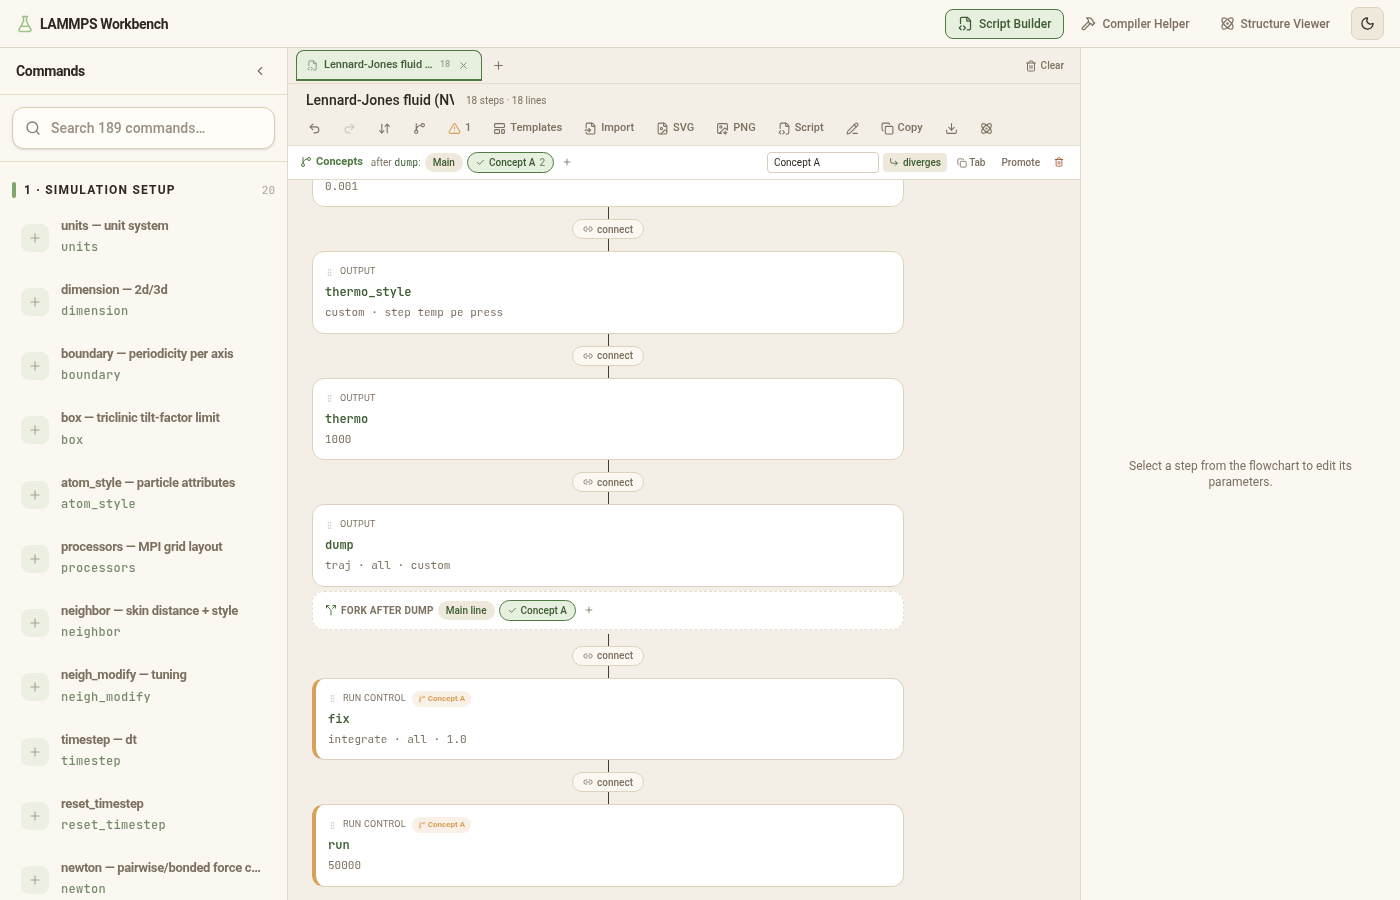
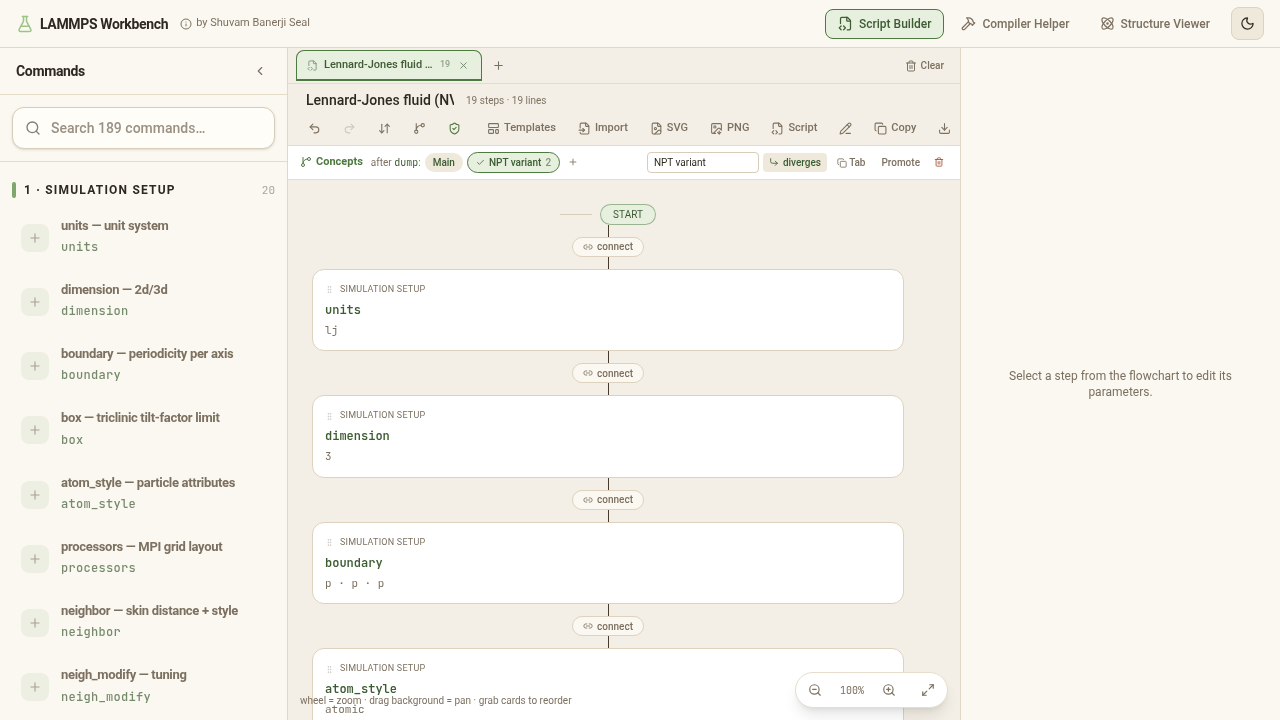
docs: document branching, script check and the perf work
* README: new feature entries for concept branching, Script check and
    pipeline-order emission; the performance and analysis bullets now
    describe what the code actually does, with the measured RDF numbers;
    two new screenshots (branching, Script check catching a real error).
  * wiki/Concept-Branching.md — the model (fork point, diverges vs
    rejoins), forking, switching, the per-concept controls, and a worked
    NVT-vs-NPT example.
  * wiki/Script-Check.md — every rule with the docs.lammps.org sentence it
    enforces, plus an explicit statement of what the checker does NOT do:
    it validates structure, not physics. A clean check does not mean the
    simulation is right.
  * wiki/Performance.md — a v3.5 section covering the cell-list RDF, the
    analysis worker, the direct instance-matrix writes, the two disposal
    leaks and the argument-spread crash.
  * wiki/Home.md — links the new pages and states the licensing position
    up front instead of calling the project open source.

diff --git a/README.md b/README.md
@@ -32,8 +32,10 @@ Load **LAMMPS**, **XYZ**, **PDB** and **CIF** structures by drag & drop and expl
 | ![Light](docs/screenshots/app-light.png) | ![Shortcuts](docs/screenshots/shortcuts-overlay.png) |
 | **Mobile** | **Trajectory Analysis — RDF/MSD** |
 | ![Mobile](docs/screenshots/app-mobile.png) | ![Analysis](docs/screenshots/analysis-desktop.png) |
-| **Analysis — mobile** | |
-| ![Analysis Mobile](docs/screenshots/analysis-mobile.png) | |
+| **Analysis — mobile** | **Concept branching — one flowchart, several ideas** |
+| ![Analysis Mobile](docs/screenshots/analysis-mobile.png) | ![Branching](docs/screenshots/flowchart-branching.png) |
+| **Script check — doc-grounded validation** | **Viewer dock on a phone** |
+| ![Script check](docs/screenshots/script-check.png) | ![Mobile dock](docs/screenshots/viewer-dock-mobile.png) |
 
 ## 🎬 Simulation Videos — rendered **in-browser**
 
@@ -47,6 +49,9 @@ The viewer plays **LAMMPS dump** (`.lammpstrj`/`.dump`) natively and exports **M
 
 ## ✨ Features
 
+- 🌿 **Concept branching — divergent ideas in one flowchart.** Hover any step and hit the branch icon to *fork the pipeline from that point onward*. The new concept starts as a **copy of the rest of your pipeline**, so you edit a variant instead of rebuilding from scratch: swap the thermostat, try a different pair style, extend the production run. Switch between **Main line** and each concept with one click — the generated script, the warnings and the SVG export all follow whichever concept is taken. A concept either **replaces** everything after the fork (truly divergent) or **rejoins** the main line (a detour), and the steps it cut off stay visible, ghosted, under *"not in this concept"*. When one idea wins, **Promote** folds it into the main line and drops its rivals; **Tab** flattens any concept into its own flowchart tab for side-by-side comparison. Several forks can be open at once.
+- ✅ **Script check — validation against the LAMMPS rules, not vibes.** A linter reads the *final* script (generated or hand-edited) and flags what LAMMPS would reject or silently do wrong: header-only commands used after the box (`units`, `dimension`, `boundary`, `atom_style`), commands used before it (`pair_coeff`, `mass`, `velocity`, `create_atoms`), `unfix`/`undump`/`uncompute` of an ID that was never defined, fix/dump/compute ID reuse with a different style, groups and regions referenced before definition, a `run` with no time-integration fix, `pair_style reaxff` without charge equilibration, and kspace/pair-style mismatches. **Every rule quotes the `docs.lammps.org` page it enforces and links to it**, and the whole rule set is verified silent on the official example scripts (`in.melt`, `in.heatflux`, `in.msd.2d`, `in.cos.1000SPCE`) — a linter that cries wolf on `in.melt` would be worse than none. Every shipped template is asserted to pass with zero errors *and* zero warnings.
+- ⬇ **Pipeline-order emission.** The script comes out in exactly the order the flowchart shows, because LAMMPS executes an input file top to bottom and the docs are explicit that the settings/run phases *"can be repeated as many times as desired"*. That makes multi-stage scripts work: `run` → `reset_timestep` → `run`, a second `dump` opened after a stage, and `write_data` **after** the run rather than before it. A **Sort** action still reorders into canonical section order on demand — it moves the steps, so the flowchart never disagrees with the script.
 - 🧪 **LAMMPS Workbench** — three integrated modules: a visual **Script Builder** (flowchart pipeline of 186 curated commands — the complete general-command surface, locked by a coverage test against docs.lammps.org), a **Compiler Helper** (package/accelerator presets → ready-to-run CMake build scripts) and the 3D **Structure Viewer**.
 - 💾 **Everything persists** — your script pipeline, compiler options, active module and light/dark theme survive module switches *and* page reloads (local-only, nothing uploaded).
 - 🧩 **Editable flowchart** — grab any card and drop it between two others (it locks into place with a live insertion indicator), pan by dragging the background, zoom with the mouse wheel (35–250%), click any **connect** pill to insert a command at that exact spot. Prefer raw text? **Edit script** switches to a hand-editing mode that emits your text verbatim.
@@ -61,7 +66,7 @@ The viewer plays **LAMMPS dump** (`.lammpstrj`/`.dump`) natively and exports **M
 - 🧊 **True 3D rendering** — depth-correct perspective view of atoms, bonds and the simulation cell, powered by three.js / React Three Fiber.
 - 📐 **Measurement tools** — click 2–4 atoms for live distance / angle / dihedral readouts with on-canvas overlays.
 - 🎞 **Trajectory playback** — multi-frame XYZ **and LAMMPS dump** files get a scrubber with play/pause and 2–30 fps speeds (`P`, `,`, `.`).
-- 📊 **Trajectory analysis** — new **Analysis** tab for dump trajectories: **RDF g(r)** (2D/3D PBC-aware, 100 bins), **MSD vs lag**, **density profiles** along x/y/z, **speed histograms** (if `vx vy vz`), all as SVG charts with CSV export. Verified on your 3 demos: Ideal Gas flat `g(r)≈1`, LJ Freezing crystal peaks at `g≈2.4`.
+- 📊 **Trajectory analysis** — the **Analysis** tab for dump trajectories: **RDF g(r)** (2D/3D PBC-aware), **MSD vs lag** (minimum-image, time-origin averaged, ID-following), **density profiles**, **speed histograms** (if `vx vy vz`), all as SVG charts with CSV export. Runs in a worker, once per structure. The physics is unit-tested, not just eyeballed: `g(r)→1` for a random gas, first and second shells of a simple-cubic lattice at `a` and `a√2`, MSD exactly `(v·t)²` under uniform drift, zero for a frozen structure, and correct across a periodic wrap.
 - 🔬 **Improved LAMMPS dump rendering** — handles `x y z` / `xu yu zu` / `xs ys zs`, optional `vx vy vz` velocities, thin 2D boxes (`-0.5→0.5`) with correct PBC and box display.
 - 🔗 **Shareable views** — the Share button copies a URL that restores your exact visualization settings.
 - 📁 **Four structure formats**
@@ -72,7 +77,8 @@ The viewer plays **LAMMPS dump** (`.lammpstrj`/`.dump`) natively and exports **M
   | Protein Data Bank | `.pdb` `.ent` | `CONECT` bonds, `CRYST1` unit cell |
   | CIF | `.cif` `.mmcif` | fractional ↔ Cartesian conversion, triclinic cells as true parallelepipeds |
 - 🎨 **All 118 elements** resolved by symbol from *any* format and colored with standard **CPK/Jmol** palettes; per-type recoloring in the sidebar.
-- ⚡ **Large-system performance** — atoms *and* bonds render as single instanced draw calls; bond inference uses an O(n) spatial hash grid; adaptive device-pixel-ratio and tessellation scale with system size; FPS-adaptive quality degradation; parsing runs in a Web Worker so the UI never freezes.
+- ⚡ **Large-system performance** — atoms *and* bonds render as single instanced draw calls with instance matrices written straight into the GPU buffer (no per-atom `Object3D` compose, no per-instance colour string re-parsing); bond inference uses an O(n) spatial hash grid; adaptive device-pixel-ratio and tessellation scale with system size; FPS-adaptive quality degradation; `frameloop="demand"` means zero idle GPU burn.
+- 🧵 **Two Web Workers, so the UI never freezes** — parsing runs off the main thread, and so does trajectory analysis. **RDF uses a periodic cell list** instead of an all-pairs loop: measured **7× faster at 10 000 atoms and 36× at 30 000** (36.9 s → 1.0 s), with the accelerated histogram asserted bin-for-bin identical to a brute-force reference. MSD resolves a stable atom ordering once instead of rebuilding a lookup inside its inner loop.
 - 🎬 **High-quality video export** — one-click recording of the live canvas at up to 60 fps and ~24 Mbps, saved as MP4 (H.264) where the browser supports it, WebM (VP9/VP8) otherwise.
 - 💡 **Five lighting rigs** (studio · lab · outdoor · space · soft) plus four materials (realistic · plastic · metallic · toon).
 - 📦 **Simulation box display** for LAMMPS bounds, PDB `CRYST1` and CIF cells — triclinic cells render correctly, never faked as cubes.

diff --git a/wiki/Script-Check.md b/wiki/Script-Check.md
@@ -1,0 +1,76 @@
+# Script check
+
+The Script Builder validates the script it produces against the LAMMPS
+command rules, and links every finding to the documentation page that
+defines it.
+
+Open it with the shield/warning badge in the toolbar. The badge itself shows
+the current error count (or warning count when there are no errors), so you can
+see at a glance whether the pipeline is sound.
+
+## What it checks
+
+It reads the **final text** — generated *or* hand-edited in manual mode — so
+what is validated is exactly what you will feed to `lmp -in`.
+
+### Errors — LAMMPS will refuse, or silently do the wrong thing
+
+| Rule | Requirement |
+|---|---|
+| `order/units-after-box` | `units` *"cannot be used after the simulation box is defined by a read_data or create_box command"* — [units](https://docs.lammps.org/units.html) |
+| `order/dimension-after-box` | must come **before** the box — [dimension](https://docs.lammps.org/dimension.html) |
+| `order/boundary-after-box` | cannot follow `read_data`/`create_box`/`read_restart`; use `change_box` — [boundary](https://docs.lammps.org/boundary.html) |
+| `order/atom_style-after-box` | cannot follow the box definition — [atom_style](https://docs.lammps.org/atom_style.html) |
+| `order/pair_coeff-before-box` | *"must come after the simulation box is defined"* — [pair_coeff](https://docs.lammps.org/pair_coeff.html) |
+| `order/mass-before-box` | same requirement — [mass](https://docs.lammps.org/mass.html) |
+| `order/pair_coeff-without-pair_style` | coefficients with no style declared |
+| `order/create_atoms-without-atom_style` | *"An atom_style must be previously defined to use this command"* — [create_atoms](https://docs.lammps.org/create_atoms.html) |
+| `order/velocity-without-atoms` | no `read_data`/`read_restart`/`create_atoms` yet |
+| `ref/unknown-fix` · `ref/unknown-dump` · `ref/unknown-compute` | `unfix`/`undump`/`uncompute` of an ID that was never defined, or already removed |
+| `ref/unknown-group` · `ref/unknown-region` | a group or region used before it exists |
+| `id/fix-reuse` | re-issuing a fix ID with a **different** style (the same style is legal and is not flagged) |
+| `id/dump-reuse` · `id/compute-reuse` | duplicate IDs |
+| `run/no-atoms` | nothing to integrate (a `fix pour`/`deposit`/`gcmc` counts as an atom source) |
+| `reaxff/missing-qeq` | *"LAMMPS requires that fix qeq/reaxff … is used with pair_style reaxff"* unless `checkqeq no` — [pair_reaxff](https://docs.lammps.org/pair_reaxff.html) |
+
+### Warnings — it runs, but probably not as intended
+
+| Rule | Why |
+|---|---|
+| `run/no-integrator` | no `fix nve`/`nvt`/`npt`/`rigid` active — LAMMPS runs and the atoms do not move |
+| `run/no-pair-style` | atoms will not interact |
+| `order/mass-after-velocity` | *"All masses must be defined before a velocity or fix shake command is used"* — [mass](https://docs.lammps.org/mass.html) |
+| `order/create_atoms-without-lattice` | `create_atoms … box` fills from the current lattice; with no `lattice` command the default `lattice none 1.0` applies |
+| `create_box-without-atom_style` | you get the default `atom_style atomic` — no charges, bonds or molecule IDs |
+| `kspace/pair-mismatch` | a long-range solver needs a matching `coul/long`-family pair style |
+| `script/no-run` | nothing is simulated |
+| `script/pair-style-without-coeff` | a style with no coefficients and no data file to supply them |
+| `script/no-mass` | no `mass` and no data file (not flagged for `atom_style sphere` and friends, which carry per-atom mass) |
+
+## What it deliberately does not do
+
+It is a **static ordering and reference checker**, not a physics referee. It
+will not tell you that your timestep is too large, your thermostat damping is
+unphysical or your force field is wrong for your system. It also does not
+validate the style-specific argument grammar of all ~900 fix/compute/pair
+styles.
+
+Treat a clean check as "this script is structurally valid LAMMPS", not as
+"this simulation is correct". The generated header says as much, and so does
+the licence's warranty section.
+
+## No false alarms
+
+A linter that fires on the official examples would be worse than none, so the
+whole rule set is asserted **silent** — zero errors *and* zero warnings — on
+canonical scripts from the `lammps/lammps` examples tree: `in.melt`,
+`in.heatflux`, `in.msd.2d` and `in.cos.1000SPCE`. Every shipped starter
+template is held to the same bar.
+
+If you hit a false positive, that is a bug worth reporting — use the
+**"Incorrect LAMMPS output"** issue template and quote the docs sentence.
+
+## See also
+
+- [[Concept Branching]] — the check follows whichever concept is taken
+- [`src/lammps/validate.ts`](https://github.com/Shuvam-Banerji-Seal/lammps-web-gui/blob/main/src/lammps/validate.ts) — the rules, each with its citation

diff --git a/wiki/Concept-Branching.md b/wiki/Concept-Branching.md
@@ -1,0 +1,98 @@
+# Concept branching
+
+One flowchart, several competing ideas.
+
+A molecular-dynamics study is rarely one script. You build an equilibration
+sequence, then you want to know: NVT or NPT for production? `lj/cut` at 2.5 or
+3.0? 50 000 steps or 200 000? Historically that meant duplicating the whole
+pipeline per variant and keeping them in sync by hand.
+
+Branching lets the shared prefix stay shared and only the divergent tail
+differ.
+
+## The model
+
+| Term | Meaning |
+|---|---|
+| **Main line** | the trunk — the linear pipeline you started with |
+| **Fork point** | the step a concept diverges *after* |
+| **Concept** | an alternative list of steps anchored at a fork point |
+| **Diverges** | the concept **replaces** everything after the fork (the default) |
+| **Rejoins** | the main line **resumes** after the concept — a detour, not a replacement |
+
+At each fork point exactly one path is taken: Main line, or one concept.
+Several fork points can exist in one flowchart, and each is chosen
+independently — so a fork after `velocity` that picks a thermostat composes
+with a fork after `run` that picks what gets written out.
+
+## Forking
+
+Hover any card in the flowchart and click the branch icon, or use **Fork** in
+the toolbar, or **Fork a concept here…** from any `connect` pill.
+
+The new concept is seeded with a **copy of the rest of your pipeline**. That is
+deliberate: you almost always want to *vary* what you already have, not start
+from an empty tail. Edit the copy — change a fix, retune a parameter, add a
+second run — and the main line is untouched.
+
+Adding a concept with the **+** button on a fork row instead starts it empty,
+for when the variant really is a different ending.
+
+## Switching
+
+The **Concepts** bar above the canvas and the **fork row** inside it both show
+`Main line` plus a chip per concept. Click one and everything follows it at
+once:
+
+- the generated script (`Script` view, **Copy**, **Download**),
+- the **Script check** diagnostics,
+- the **SVG / PNG** export, which marks the fork with a decision diamond,
+  rails the concept's cards in amber and names the taken concept in its
+  subtitle.
+
+Steps that a *diverging* concept cut off are not deleted — they stay visible,
+ghosted, under **"not in this concept"**. Switch back to Main line and they
+come straight back.
+
+## Per-concept controls
+
+| Control | What it does |
+|---|---|
+| name field | rename the concept (it appears on cards, chips and exports) |
+| **diverges / rejoins** | toggle whether the main line resumes after it |
+| **Tab** | flatten this concept into its own flowchart tab, for side-by-side comparison |
+| **Promote** | this idea won — fold it into the main line and drop its rivals at that fork |
+| 🗑 | delete the concept |
+
+Deleting a *trunk* step that a concept forks after does not orphan the concept:
+it re-anchors to the step before, or to the very start.
+
+## Everything is undoable
+
+Forking, switching, promoting, renaming and deleting all go through the normal
+history — `Ctrl+Z` / `Ctrl+Shift+Z`. The whole multi-tab workspace, branches
+included, is persisted to `localStorage`, so a reload brings your concepts back.
+
+## Worked example
+
+```
+units lj · lattice fcc · region · create_box · create_atoms · mass
+velocity · pair_style lj/cut · pair_coeff · neighbor · timestep
+thermo_style · thermo · dump
+                    │
+              ┌─────┴─────┐  fork after dump
+              │           │
+         Main line    "NPT variant"
+         fix nvt      fix npt
+         run 50000    run 200000
+                      write_data final.data
+```
+
+Switch chips to emit either script. `Promote` on **NPT variant** makes it the
+main line; `Tab` gives you both as separate flowcharts to export next to each
+other.
+
+## See also
+
+- [[Script Check]] — the validator that checks whichever concept is taken
+- [[Keyboard Shortcuts]]

diff --git a/wiki/Performance.md b/wiki/Performance.md
@@ -50,7 +50,23 @@ CDN). First paint depends only on this repo's own static assets.
 | Hover picking guard | Per-move raycasting switches off beyond 50,000 atoms; orbit/zoom remain unaffected. |
 | No `preserveDrawingBuffer` | Screenshots force an explicit render before capture instead of keeping the drawing buffer alive every frame. |
 
+## v3.5 additions
+
+| Mechanism | Effect |
+|---|---|
+| Cell-list RDF | `g(r)` bins pairs through a periodic cell list instead of an all-pairs loop. Measured on a fixed-density gas: **7x faster at 10 000 atoms**, **36x at 30 000** (36.9 s → 1.0 s). The accelerated histogram is asserted **bin-for-bin identical** to a brute-force reference, including the awkward 1-cell and 2-cell wrap cases and thin-z 2D slabs. |
+| Analysis Web Worker | RDF, MSD and the density profile run off the main thread. They used to be called **inline in the Analysis panel's JSX**, so every React render recomputed all of them — up to 30x/second with a trajectory playing. Now: once per loaded structure, with stale results discarded by request generation. |
+| Allocation-free MSD | A stable atom ordering is resolved once instead of rebuilding an `id → atom` Map inside the (lag x origin) loop. A permutation array is allocated only for frames whose atom order actually differs — for a normal LAMMPS dump, none. |
+| Direct instance-matrix writes | An atom instance is a translation plus a uniform scale, so its 4x4 is written straight into the `InstancedBufferAttribute`: no `Object3D.updateMatrix()` quaternion compose, no `setMatrixAt` copy per atom. Unit-tested against `THREE.Object3D` for random inputs so the shortcut is provably identical. |
+| Typed-array bond buffers | Bonds no longer allocate 2 `Vector3` + 1 `Quaternion` per half-bond — 300k short-lived objects for a 50k-bond structure, previously rebuilt whenever `atomMap` changed identity. |
+| Per-type colour cache | Both instanced meshes cached one `THREE.Color` per atom **type** instead of calling `color.set(hexString)` once per instance, which re-parsed the same handful of strings tens of thousands of times per frame. |
+| Geometry disposal | The sphere and cylinder geometries are `useMemo`'d and replaced when the tessellation tier changes. R3F only disposes what it builds from `args`, so each differently sized load used to leak the previous GPU buffers. |
+| Lazy `atomMap` | Only built when something needs id lookup (bonds, or a measurement selection). A LAMMPS dump has no bonds, so playback was doing 60k `Map` inserts per frame for nothing. |
+| Stable camera radius | The framing radius is keyed on the simulation box, not on `data` identity. Playback previously rescanned every atom per frame and handed the camera a slightly different radius each time — the view visibly pumped. |
+| No argument spreading | `computeSpeedDistribution` / `computeDensityProfile` used `Math.min(...atoms.map(...))`, which throws `RangeError` past the engine's argument limit — the bundled 60k example was already near it. Both now track their extent in one pass; regression-tested at 200 000 atoms. |
+
 ## Bundle budget
 
 CI fails if gzipped JS exceeds **420 KB total** or any single chunk exceeds
-**300 KB** (`scripts/check-bundle-size.mjs`). Current usage: ~326 KB total.
+**300 KB** (`scripts/check-bundle-size.mjs`). Current usage: ~392 KB total
+across 6 chunks, including two Web Workers.

diff --git a/wiki/Home.md b/wiki/Home.md
@@ -1,7 +1,12 @@
 # Home
 
-**Molecule3D** is a free, open-source, GPU-accelerated 3D molecular structure
-viewer that runs entirely in your browser.
+**Molecule3D** is a free, GPU-accelerated LAMMPS workbench and 3D molecular
+structure viewer that runs entirely in your browser.
+
+It is **source-available**, not open source: free for education and
+non-commercial research with attribution, commercial use by written licence.
+See [LICENSE](https://github.com/Shuvam-Banerji-Seal/lammps-web-gui/blob/main/LICENSE)
+and [COMMERCIAL.md](https://github.com/Shuvam-Banerji-Seal/lammps-web-gui/blob/main/COMMERCIAL.md).
 
 ▶ **Live app**: https://shuvam-banerji-seal.github.io/lammps-web-gui/
 💻 **Source**: https://github.com/Shuvam-Banerji-Seal/lammps-web-gui
@@ -19,6 +24,8 @@ viewer that runs entirely in your browser.
 
 | Page | Contents |
 |---|---|
+| [[Concept Branching]] | one flowchart, several divergent ideas |
+| [[Script Check]] | the validator, every rule with its docs citation |
 | [[File Formats]] | format guides with example snippets |
 | [[Keyboard Shortcuts]] | every shortcut, printable |
 | [[Performance]] | instancing, spatial hashing, quality ladder |
